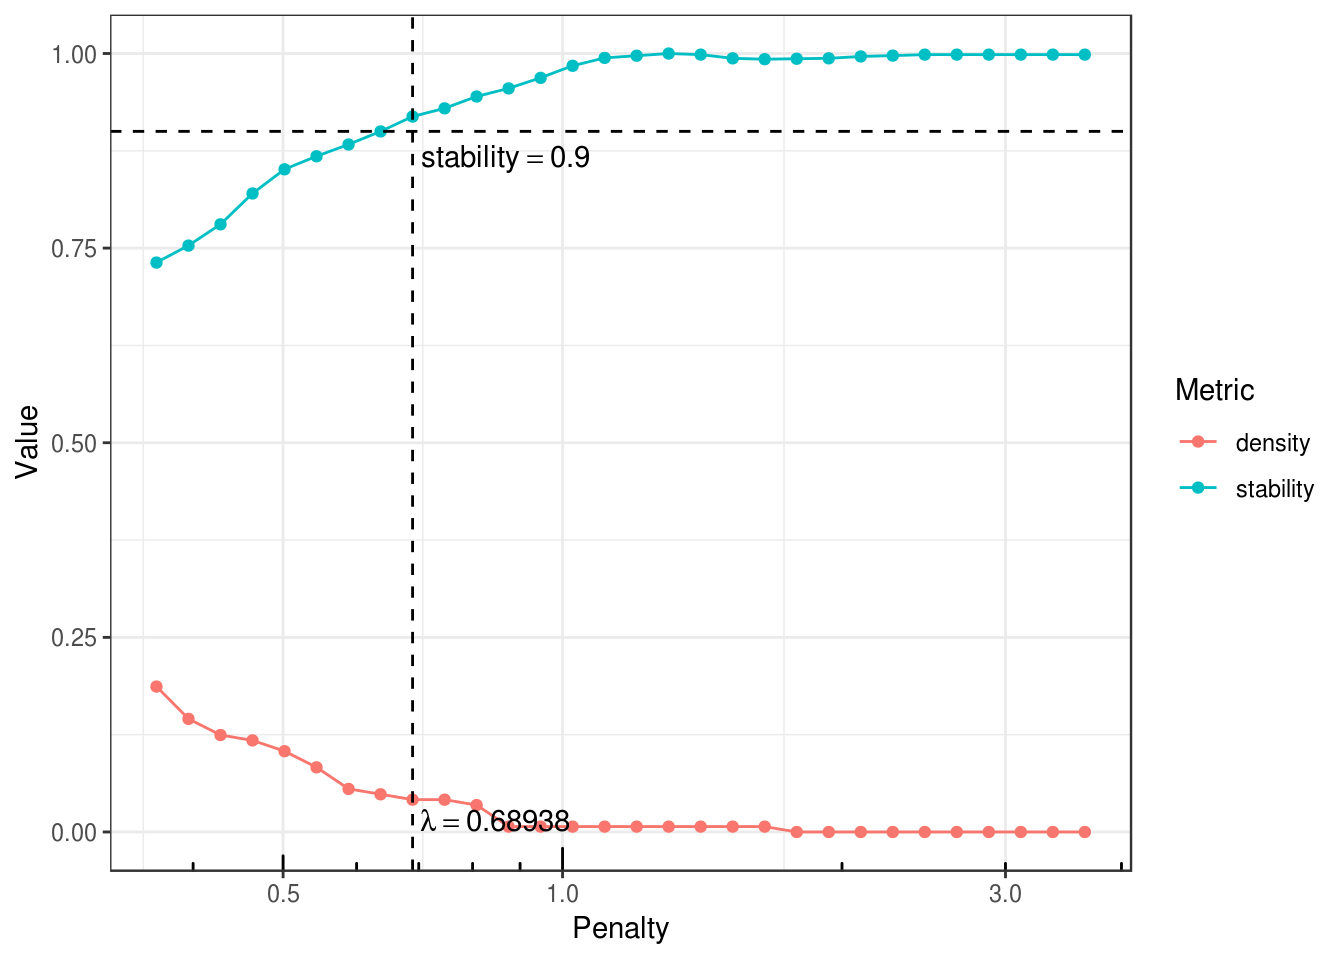
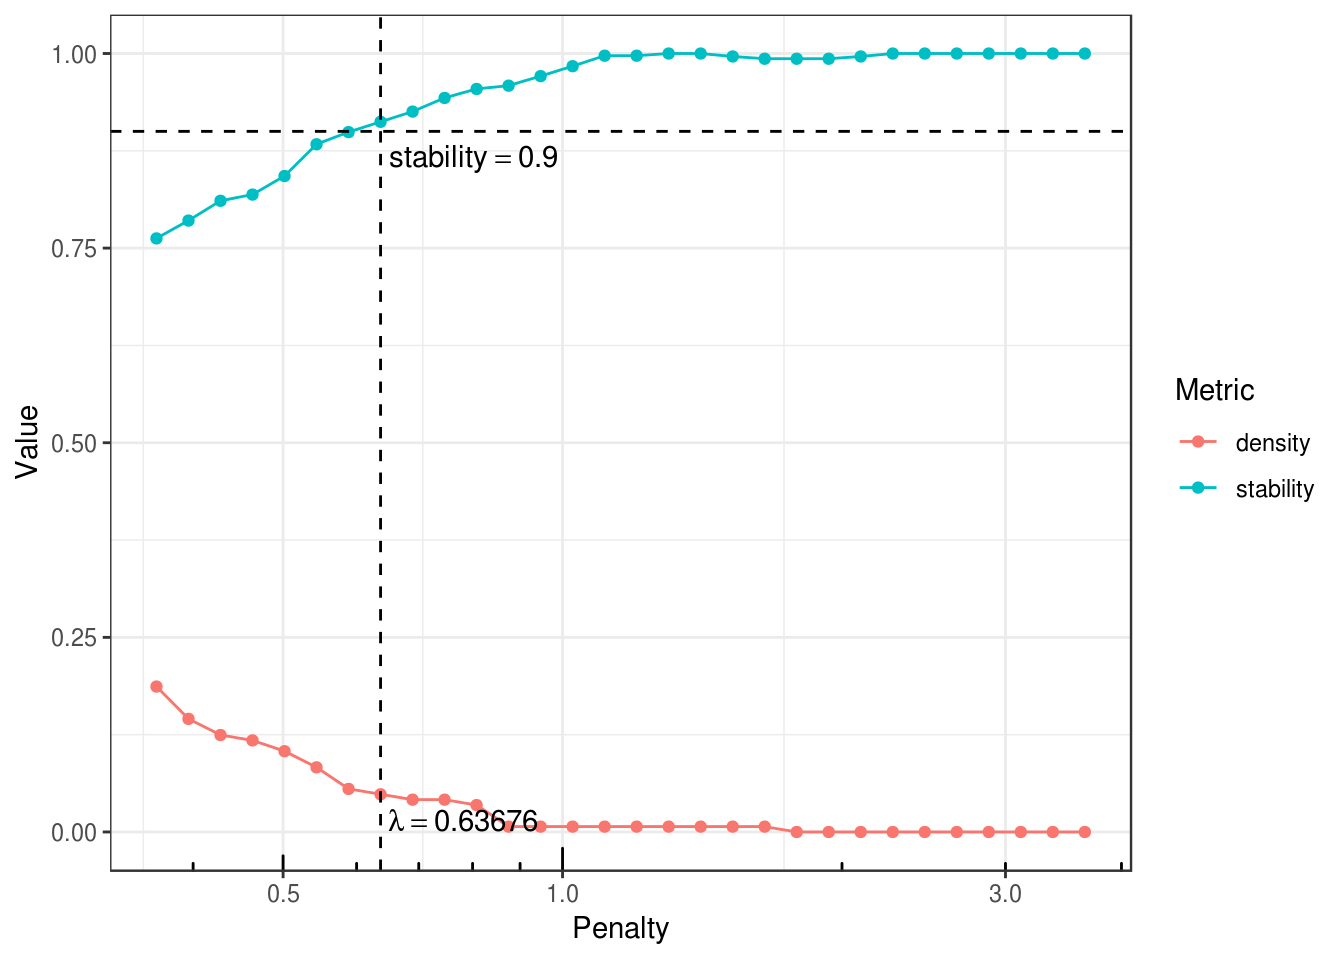
Deploy jchiquet/PLNmodels to github.com/jchiquet/PLNmodels.git:gh-pages

diff --git a/articles/PLNnetwork.html b/articles/PLNnetwork.html
@@ -102,7 +102,7 @@
       <h1>Sparse structure estimation for multivariate count data with PLN-network</h1>
                         <h4 class="author">PLN team</h4>
             
-            <h4 class="date">2019-03-06</h4>
+            <h4 class="date">2019-03-16</h4>
       
       
       <div class="hidden name"><code>PLNnetwork.Rmd</code></div>
@@ -437,12 +437,12 @@
 </h3>
 <p>The variables <code>model_BIC</code>, <code>model_StARS</code> and <code>model_pen</code> are other <code>R6Class</code> objects with class <code>PLNnetworkfit</code>. They all inherits from the class <code>PLNfit</code> and thus own all its methods, with a couple of specific one, mostly for network vizualization purposes. Most fields and methods are recalled when such an object is printed:</p>
 <div class="sourceCode" id="cb17"><pre class="sourceCode r"><code class="sourceCode r"><a class="sourceLine" id="cb17-1" data-line-number="1">model_StARS</a></code></pre></div>
-<pre><code>## Poisson Lognormal with sparse inverse covariance (penalty = 0.689)
+<pre><code>## Poisson Lognormal with sparse inverse covariance (penalty = 0.637)
 ## ==================================================================
-##  nb_param    loglik       BIC       ICL R_squared n_edges     EBIC
-##        23 -1176.952 -1221.708 -2508.402     0.964       6 -1231.07
+##  nb_param    loglik       BIC      ICL R_squared n_edges     EBIC
+##        24 -1174.595 -1221.297 -2507.99     0.964       7 -1231.68
 ##  pen_loglik density
-##   -1180.199   0.042
+##   -1177.687   0.048
 ## ==================================================================
 ## * Useful fields
 ##     $model_par, $latent, $var_par, $optim_par
@@ -459,12 +459,12 @@
 <p>Here, an igraph object can be recovered.</p>
 <div class="sourceCode" id="cb20"><pre class="sourceCode r"><code class="sourceCode r"><a class="sourceLine" id="cb20-1" data-line-number="1">my_graph &lt;-<span class="st"> </span><span class="kw"><a href="https://www.rdocumentation.org/packages/graphics/topics/plot">plot</a></span>(model_StARS, <span class="dt">plot =</span> <span class="ot">FALSE</span>)</a>
 <a class="sourceLine" id="cb20-2" data-line-number="2">my_graph</a></code></pre></div>
-<pre><code>## IGRAPH 28af3ea UNW- 17 6 -- 
+<pre><code>## IGRAPH 6430f3f UNW- 17 7 -- 
 ## + attr: name (v/c), label (v/c), label.cex (v/n), size (v/n),
 ## | label.color (v/c), frame.color (v/l), weight (e/n), color (e/c),
 ## | width (e/n)
-## + edges from 28af3ea (vertex names):
-## [1] Hym--Hsp Aga--Hsp Set--All Set--Hsp Han--Sta Hfo--Hsp</code></pre>
+## + edges from 6430f3f (vertex names):
+## [1] Hym--Hsp Aga--Hfo Aga--Hsp Set--All Set--Hsp Han--Sta Hfo--Hsp</code></pre>
 <div class="sourceCode" id="cb22"><pre class="sourceCode r"><code class="sourceCode r"><a class="sourceLine" id="cb22-1" data-line-number="1"><span class="kw"><a href="https://www.rdocumentation.org/packages/graphics/topics/plot">plot</a></span>(model_BIC)</a></code></pre></div>
 <p><img src="PLNnetwork_files/figure-html/partial_corr_network-1.png" width="672"></p>
 <div class="sourceCode" id="cb23"><pre class="sourceCode r"><code class="sourceCode r"><a class="sourceLine" id="cb23-1" data-line-number="1"><span class="kw"><a href="https://www.rdocumentation.org/packages/graphics/topics/plot">plot</a></span>(model_StARS)</a></code></pre></div>

diff --git a/news/index.html b/news/index.html
@@ -136,6 +136,13 @@
       
     </div>
 
+    <div id="plnmodels-0-8-2" class="section level1">
+<h1 class="page-header">
+<a href="#plnmodels-0-8-2" class="anchor"></a>PLNmodels 0.8.2</h1>
+<ul>
+<li>Enhancement in PLNLDA</li>
+</ul>
+</div>
     <div id="plnmodels-0-8-1" class="section level1">
 <h1 class="page-header">
 <a href="#plnmodels-0-8-1" class="anchor"></a>PLNmodels 0.8.1</h1>
@@ -156,6 +163,7 @@
     <div id="tocnav">
       <h2>Contents</h2>
       <ul class="nav nav-pills nav-stacked">
+        <li><a href="#plnmodels-0-8-2">0.8.2</a></li>
         <li><a href="#plnmodels-0-8-1">0.8.1</a></li>
         <li><a href="#plnmodels-0-7-0-1">0.7.0.1</a></li>
       </ul>

diff --git a/articles/PLNLDA.html b/articles/PLNLDA.html
@@ -102,7 +102,7 @@
       <h1>Supervized classification of multivariate count table with the Poisson discriminant Analysis</h1>
                         <h4 class="author">PLN team</h4>
             
-            <h4 class="date">2019-03-06</h4>
+            <h4 class="date">2019-03-16</h4>
       
       
       <div class="hidden name"><code>PLNLDA.Rmd</code></div>

diff --git a/articles/PLN.html b/articles/PLN.html
@@ -103,7 +103,7 @@
       <h1>Analyzing multivariate count data with the Poisson log-normal model</h1>
                         <h4 class="author">PLN team</h4>
             
-            <h4 class="date">2019-03-06</h4>
+            <h4 class="date">2019-03-16</h4>
       
       
       <div class="hidden name"><code>PLN.Rmd</code></div>

diff --git a/articles/PLNPCA.html b/articles/PLNPCA.html
@@ -102,7 +102,7 @@
       <h1>Dimension reduction of multivariate count data with PLN-PCA</h1>
                         <h4 class="author">PLN team</h4>
             
-            <h4 class="date">2019-03-06</h4>
+            <h4 class="date">2019-03-16</h4>
       
       
       <div class="hidden name"><code>PLNPCA.Rmd</code></div>

diff --git a/articles/Trichoptera.html b/articles/Trichoptera.html
@@ -102,7 +102,7 @@
       <h1>Description of the Trichoptera data set</h1>
                         <h4 class="author">PLN team</h4>
             
-            <h4 class="date">2019-03-06</h4>
+            <h4 class="date">2019-03-16</h4>
       
       
       <div class="hidden name"><code>Trichoptera.Rmd</code></div>

diff --git a/articles/Import_data.html b/articles/Import_data.html
@@ -102,7 +102,7 @@
       <h1>Data importation in PLNmodels</h1>
                         <h4 class="author">PLN team</h4>
             
-            <h4 class="date">2019-03-06</h4>
+            <h4 class="date">2019-03-16</h4>
       
       
       <div class="hidden name"><code>Import_data.Rmd</code></div>
